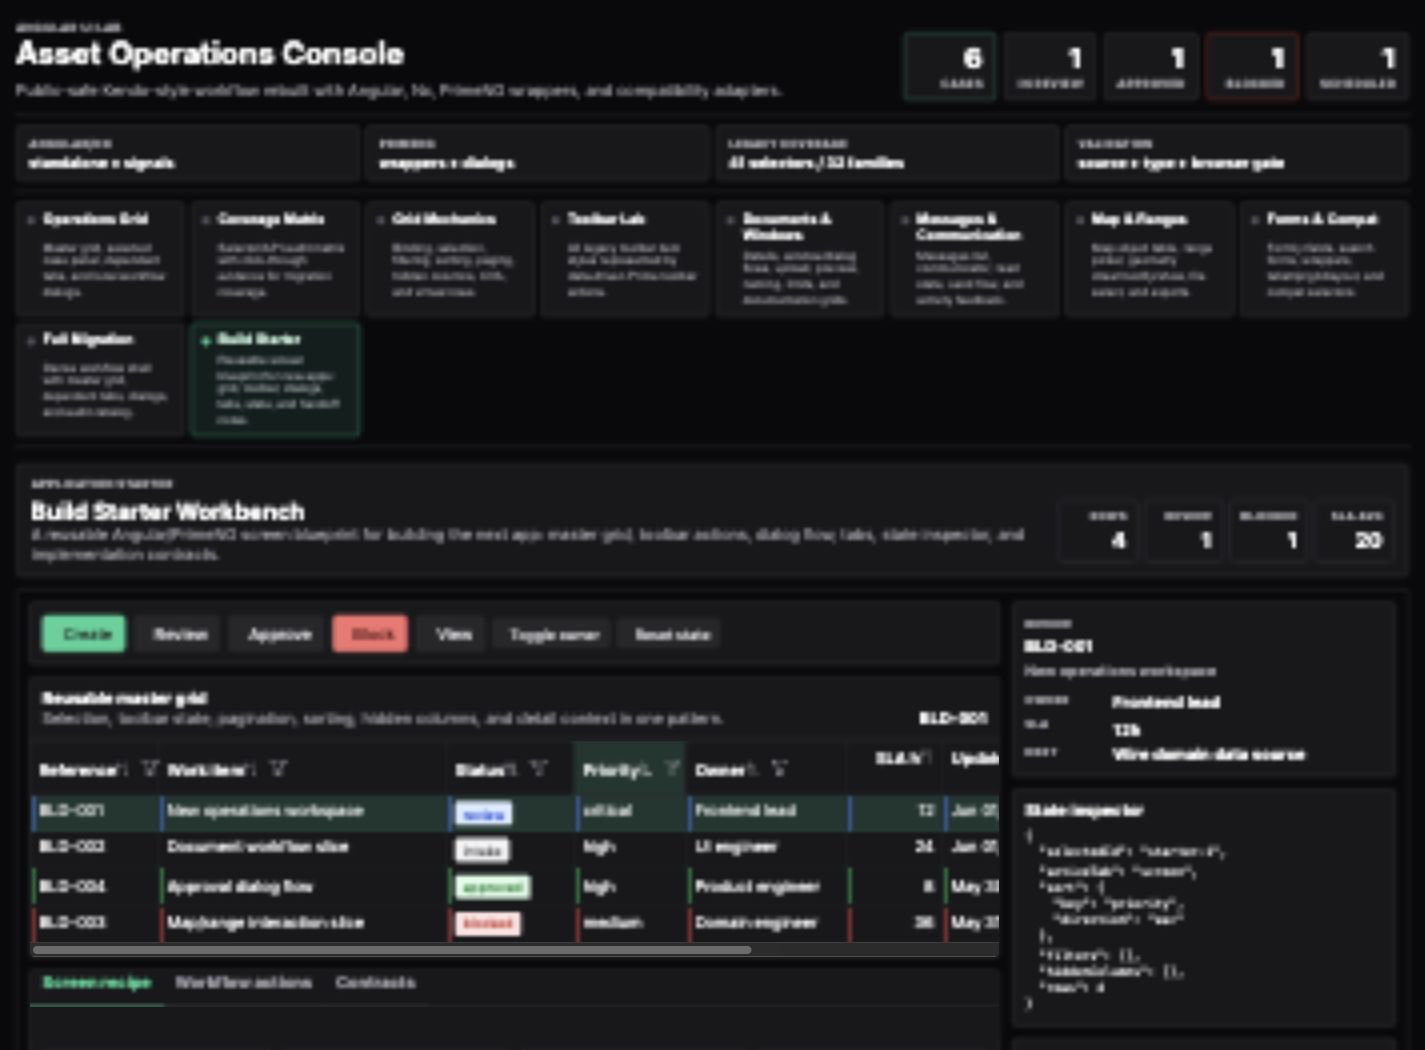
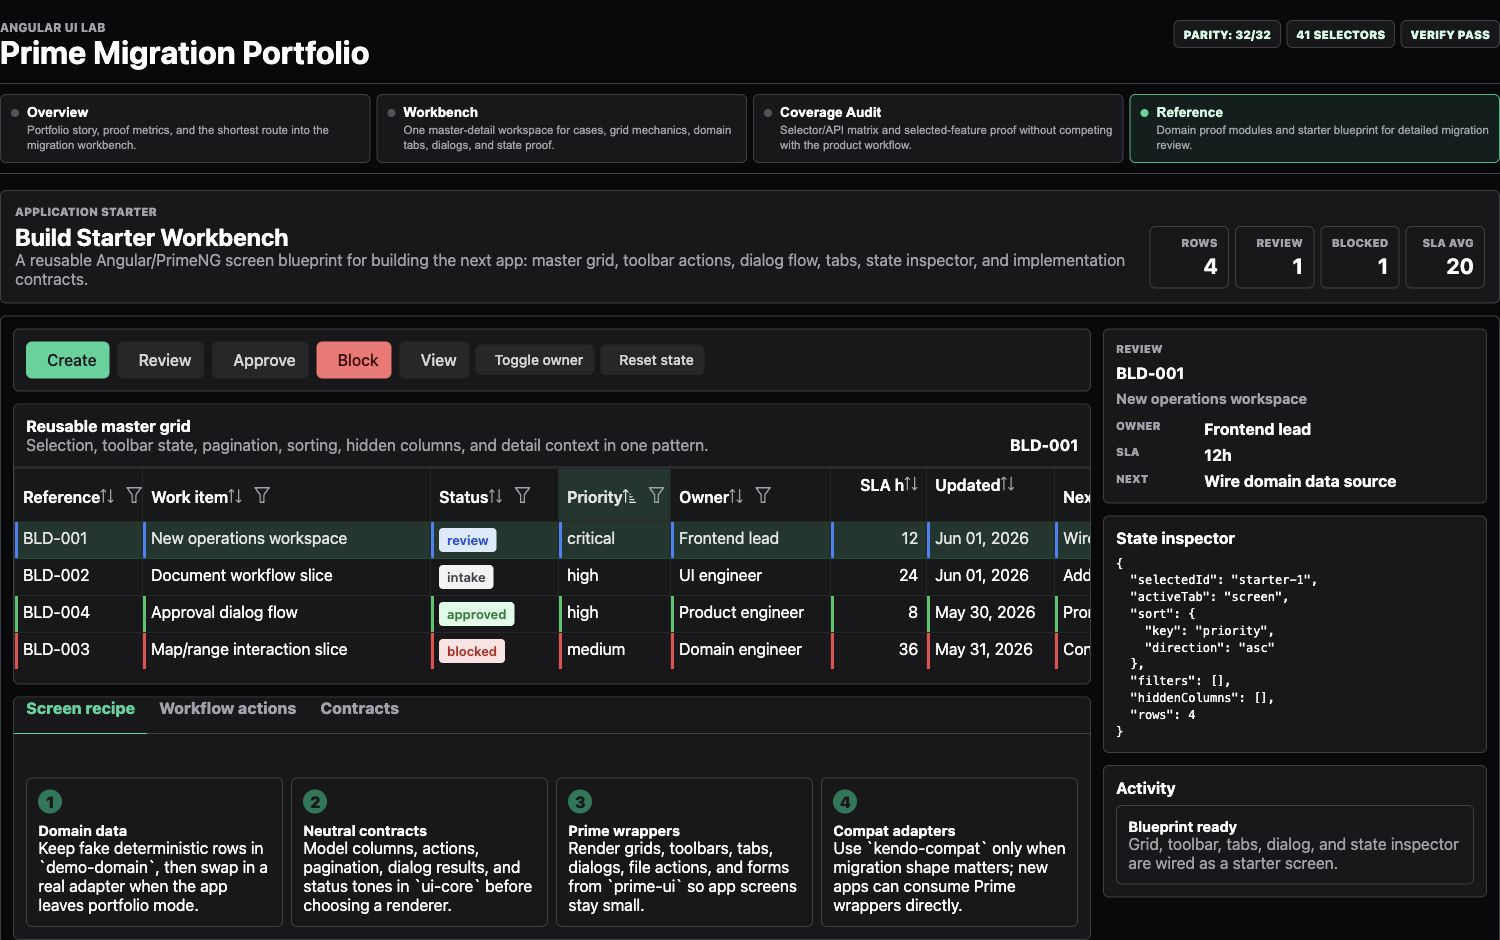
Improve portfolio screenshots

Changed region(s): [[0.0, 0.0, 1.0, 1.0]]

diff --git a/README.md b/README.md
@@ -6,7 +6,7 @@ This repository documents an enterprise Angular UI modernization slice: preservi
 
 The production-grade implementation remains private. This repository is intentionally curated for portfolio review: architecture, decisions, screenshots, validation evidence, and public-safe notes only.
 
-![Asset Operations Console](assets/prime-migration-demo.png)
+![Prime Migration Workbench](assets/prime-migration-demo.png)
 
 ## What This Shows
 
@@ -31,11 +31,17 @@ The important idea is the migration boundary: feature screens can keep familiar 
 
 ## Featured Screens
 
-### Asset Operations Console
+### Prime Migration Workbench
 
 A dense back-office screen centered on a master grid, dependent records, toolbar actions, selected-row context, local dialogs, document flows, status indicators, and public-safe fake data.
 
-![Asset Operations Console](assets/prime-migration-demo.png)
+![Prime Migration Workbench](assets/prime-migration-demo.png)
+
+### Grid And Detail Workflow
+
+A focused view of the migration boundary in action: search form, action toolbar, selected row, status tones, detail panel, and local workflow actions in one operational layout.
+
+![Grid and Detail Workflow](assets/prime-migration-grid-detail.png)
 
 ### Starter Workbench
 

diff --git a/docs/case-study.md b/docs/case-study.md
@@ -12,7 +12,7 @@ The approach uses a three-layer migration model:
 - compatibility adapters for legacy-shaped selectors, inputs, outputs, services, and models;
 - PrimeNG-backed wrappers that render the new UI while keeping app-facing contracts stable.
 
-The public demo is an `Asset Operations Console`: a dense operational Angular screen with fake data, a master grid, dependent tabs, dialog/window workflows, upload and preview flows, communication actions, map/range actions, and visible validation proof points.
+The public demo is a `Prime Migration Portfolio` workbench: a dense operational Angular screen with fake asset-operations data, a master grid, dependent tabs, dialog/window workflows, upload and preview flows, communication actions, map/range actions, and visible validation proof points.
 
 ## Why It Matters
 